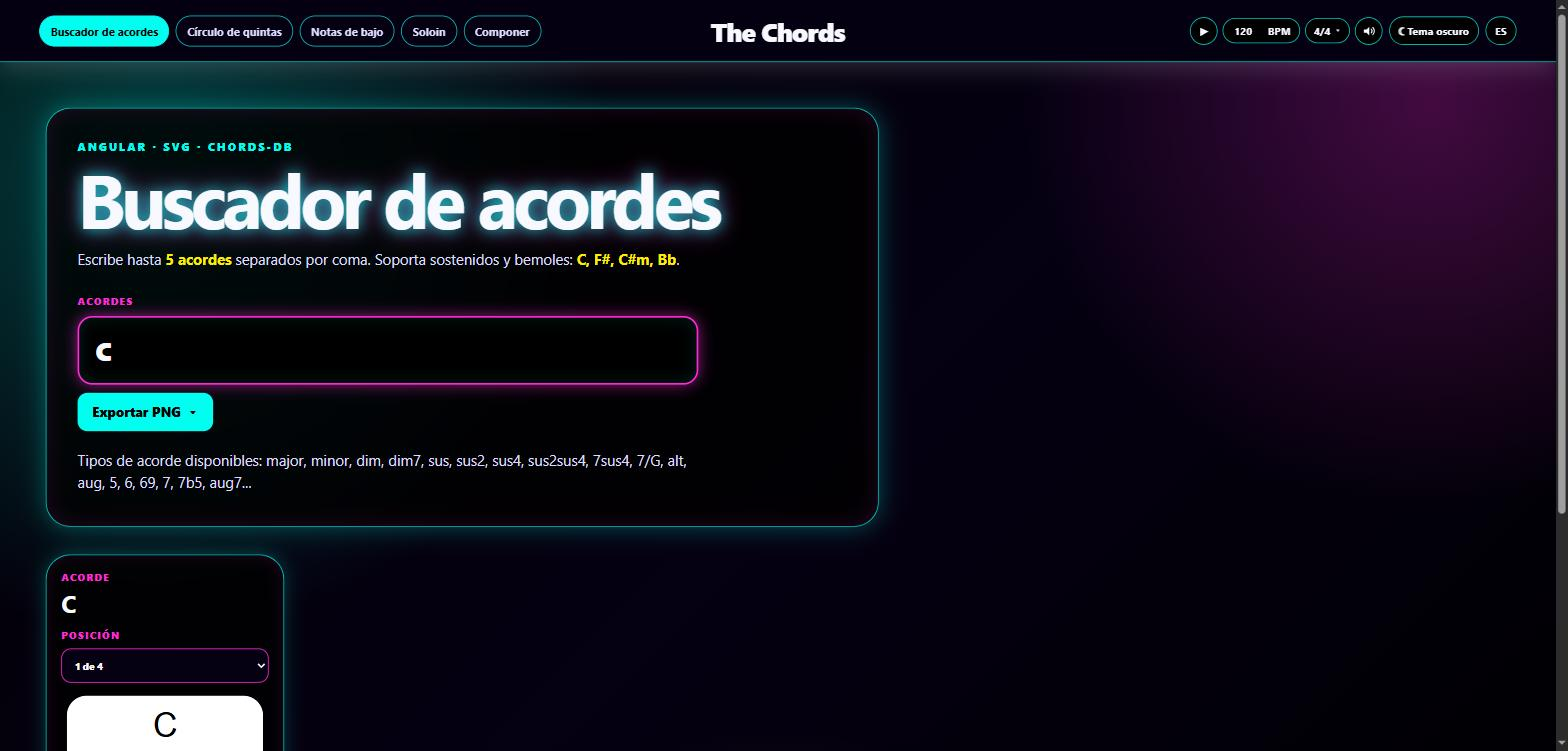
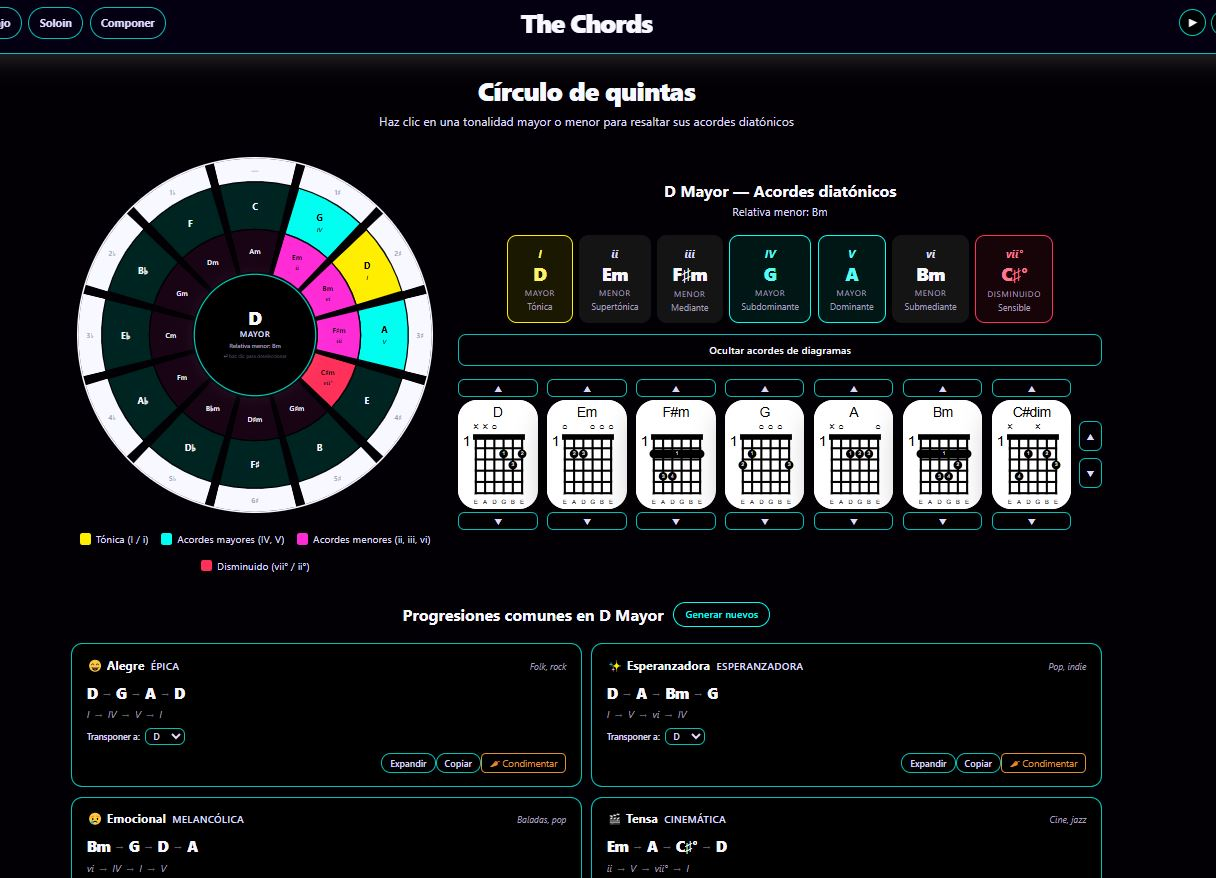
updated exp

diff --git a/src/app/content.ts b/src/app/content.ts
@@ -75,7 +75,7 @@ export const CONTENT: Record<Lang, Content> = {
     focus: {
       heading: 'What I build with',
       groups: [
-        { label: 'Backend & Cloud', items: ['.NET / C#', 'Elixir','AWS Lambda', 'Azure DevOps', 'MSSQL', 'SNS/SQS', 'GitHub Actions', 'PowerShell', 'Bash', 'Linux'] },
+        { label: 'Backend & Cloud', items: ['.NET / C#', 'Elixir', 'AWS Lambda', 'Azure DevOps', 'MSSQL', 'SNS/SQS', 'GitHub Actions', 'PowerShell', 'Bash', 'Linux'] },
         { label: 'Frontend Engineering', items: ['Angular', 'TypeScript', 'JavaScript', 'Reactive programming', 'RxJS', 'HTML5', 'CSS3', 'SCSS', 'PWA'] },
         { label: 'Leadership', items: ['Hiring', 'Mentoring', 'Code review', 'Scrum', 'Gherkin specs', 'Agile', 'Project management', 'Technical interviews'] },
       ],
@@ -95,15 +95,14 @@ export const CONTENT: Record<Lang, Content> = {
           stack: '.NET Core · C# · Angular · MSSQL · Azure DevOps · AWS Lambda',
         },
         {
-          company: 'Trestles TLMS',
-          role: 'Full Stack Software Developer',
-          period: 'May 2019 — Present',
+          company: 'Tranzact',
+          role: 'Software Engineer (Team Lead)',
+          period: 'Feb 2021 — Jun 2023',
           bullets: [
-            'Built the frontend in Angular and backend in C# .NET Core, with SQL Server 2017 scripting.',
-            'Developed a cross-platform Android/iOS app with Ionic.',
-            'Built a test-automation framework with NUnit, SpecFlow, and Selenium (C# .NET Core).',
+            'Led a team of 3 engineers under Scrum, including technical candidate evaluation.',
+            'Migrated a critical VoIP application off-premise, cutting infrastructure <strong>90%</strong> while holding <strong>99.5% uptime</strong> and zero P1 incidents.',
           ],
-          stack: 'Angular · C# · .NET Core · SQL Server · Ionic · NUnit · SpecFlow · Selenium',
+          stack: '.NET Core 5+ · Akka.NET · MSSQL · Azure · AWS Lambda · Splunk',
         },
         {
           company: 'Signal Insights Inc. (New Jersey & Sweden)',
@@ -116,14 +115,15 @@ export const CONTENT: Record<Lang, Content> = {
           stack: 'Linux · Elixir · JavaScript · Functional Programming',
         },
         {
-          company: 'Tranzact',
-          role: 'Software Engineer (Team Lead)',
-          period: 'Feb 2021 — Jun 2023',
+          company: 'Trestles TLMS',
+          role: 'Full Stack Software Developer',
+          period: 'May 2019 — Jan 2021',
           bullets: [
-            'Led a team of 3 engineers under Scrum, including technical candidate evaluation.',
-            'Migrated a critical VoIP application off-premise, cutting infrastructure <strong>90%</strong> while holding <strong>99.5% uptime</strong> and zero P1 incidents.',
+            'Built the frontend in Angular and backend in C# .NET Core, with SQL Server 2017 scripting.',
+            'Developed a cross-platform Android/iOS app with Ionic.',
+            'Built a test-automation framework with NUnit, SpecFlow, and Selenium (C# .NET Core).',
           ],
-          stack: '.NET Core 5+ · Akka.NET · MSSQL · Azure · AWS Lambda · Splunk',
+          stack: 'Angular · C# · .NET Core · SQL Server · Ionic · NUnit · SpecFlow · Selenium',
         },
         {
           company: '3DIQ Inc.',
@@ -155,9 +155,9 @@ export const CONTENT: Record<Lang, Content> = {
       certificationsLabel: 'Certifications',
       entries: [
         { school: 'USIL', detail: "Bachelor's, Business & Software Engineering", period: '2024 — Present' },
-        { school: 'TECSUP', detail: 'Software Engineering Technician — thesis on resilient distributed systems', period: '2019 — 2021' },
+        { school: 'TECSUP', detail: 'Software Engineering Technician — thesis on resilient distributed systems', period: '2016 — 2019 (Thesis in 2021)' },
         { school: 'CTAudio', detail: 'Technician, Live Sound Reinforcement', period: '2023' },
-        { school: 'ISIL', detail: 'Technician, Business Administration — unconcluded (3 semesters)', period: 'Until 2021' },
+        { school: 'ISIL', detail: 'Technician, Business Administration — unconcluded', period: 'Until 2021' },
       ],
       languages: [
         { name: 'English', level: 'Fluent — C1' },
@@ -245,15 +245,14 @@ export const CONTENT: Record<Lang, Content> = {
           stack: '.NET Core · C# · Angular · MSSQL · Azure DevOps · AWS Lambda',
         },
         {
-          company: 'Trestles TLMS',
-          role: 'Full Stack Software Developer',
-          period: 'May 2019 — Actualidad',
+          company: 'Tranzact',
+          role: 'Software Engineer (Team Lead)',
+          period: 'Feb 2021 — Jun 2023',
           bullets: [
-            'Desarrollo front-end con Angular, back-end con C# .NET Core, y scripts en SQL Server 2017.',
-            'Desarrollo de aplicación multiplataforma Android/iOS con Ionic.',
-            'Desarrollo de framework de automatización de pruebas con NUnit, SpecFlow y Selenium (C# .NET Core).',
+            'Lideré un equipo de 3 ingenieros bajo Scrum, incluyendo evaluación técnica de candidatos.',
+            'Migré una aplicación VoIP crítica fuera de infraestructura on-premise, reduciéndola en <strong>90%</strong> mientras mantenía <strong>99.5% de uptime</strong> y cero incidentes P1.',
           ],
-          stack: 'Angular · C# · .NET Core · SQL Server · Ionic · NUnit · SpecFlow · Selenium',
+          stack: '.NET Core 5+ · Akka.NET · MSSQL · Azure · AWS Lambda · Splunk',
         },
         {
           company: 'Signal Insights Inc. (Nueva Jersey y Suecia)',
@@ -266,14 +265,15 @@ export const CONTENT: Record<Lang, Content> = {
           stack: 'Linux · Elixir · JavaScript · Programación Funcional',
         },
         {
-          company: 'Tranzact',
-          role: 'Software Engineer (Team Lead)',
-          period: 'Feb 2021 — Jun 2023',
+          company: 'Trestles TLMS',
+          role: 'Full Stack Software Developer',
+          period: 'May 2019 — Ene 2021',
           bullets: [
-            'Lideré un equipo de 3 ingenieros bajo Scrum, incluyendo evaluación técnica de candidatos.',
-            'Migré una aplicación VoIP crítica fuera de infraestructura on-premise, reduciéndola en <strong>90%</strong> mientras mantenía <strong>99.5% de uptime</strong> y cero incidentes P1.',
+            'Desarrollo front-end con Angular, back-end con C# .NET Core, y scripts en SQL Server 2017.',
+            'Desarrollo de aplicación multiplataforma Android/iOS con Ionic.',
+            'Desarrollo de framework de automatización de pruebas con NUnit, SpecFlow y Selenium (C# .NET Core).',
           ],
-          stack: '.NET Core 5+ · Akka.NET · MSSQL · Azure · AWS Lambda · Splunk',
+          stack: 'Angular · C# · .NET Core · SQL Server · Ionic · NUnit · SpecFlow · Selenium',
         },
         {
           company: '3DIQ Inc.',
@@ -305,9 +305,9 @@ export const CONTENT: Record<Lang, Content> = {
       certificationsLabel: 'Certificaciones',
       entries: [
         { school: 'USIL', detail: 'Bachillerato, Ingeniería Empresarial y de Sistemas', period: '2024 — Actualidad' },
-        { school: 'TECSUP', detail: 'Técnico en Ingeniería de Software — tesis sobre sistemas distribuidos resilientes', period: '2019 — 2021' },
+        { school: 'TECSUP', detail: 'Técnico en Ingeniería de Software — tesis sobre sistemas distribuidos resilientes', period: '2016 — 2019 (Tesis en 2021)' },
         { school: 'CTAudio', detail: 'Técnico en Reforzamiento Sonoro en Vivo', period: '2023' },
-        { school: 'ISIL', detail: 'Técnico en Administración de Empresas — inconcluso (3 ciclos)', period: 'Hasta 2021' },
+        { school: 'ISIL', detail: 'Técnico en Administración de Empresas — inconcluso', period: 'Hasta 2021' },
       ],
       languages: [
         { name: 'Inglés', level: 'Fluido — C1' },

diff --git a/src/app/app.ts b/src/app/app.ts
@@ -122,14 +122,22 @@ export class App implements AfterViewInit, OnDestroy {
       stack: 'Angular 22',
       live: 'https://elparaquecosadeque.github.io/the-chords/chord-finder',
       repo: 'https://github.com/elparaquecosadeque/the-chords',
-      screenshots: ['/assets/screenshots/the-chords/1.jpg', '/assets/screenshots/the-chords/2.jpg'],
+      screenshots: [
+        '/assets/screenshots/the-chords/3.JPG', // chord finder, multiple chords
+        '/assets/screenshots/the-chords/1.JPG', // circle of fifths, diatonic chords
+        '/assets/screenshots/the-chords/2.JPG', // composer workspace
+      ],
     },
     {
       id: 'metropolitano',
       stack: 'Angular 22 · PWA',
       live: 'https://oficinamentaldebruno.com/mi-metropolitano/',
       repo: 'https://github.com/elparaquecosadeque/mi-metropolitano',
-      screenshots: ['/assets/screenshots/mi-metropolitano/1.jpg', '/assets/screenshots/mi-metropolitano/2.jpg'],
+      screenshots: [
+        '/assets/screenshots/mi-metropolitano/2.jpg', // route search result with transfer
+        '/assets/screenshots/mi-metropolitano/3.JPG', // route & schedule browser
+        '/assets/screenshots/mi-metropolitano/4.JPG', // mobile search result
+      ],
     },
     {
       id: 'personal-trainer-pwa',
@@ -143,7 +151,10 @@ export class App implements AfterViewInit, OnDestroy {
       stack: 'Angular',
       live: 'https://elparaquecosadeque.github.io/live-sound-calculator/',
       repo: 'https://github.com/elparaquecosadeque/live-sound-calculator',
-      screenshots: ['/assets/screenshots/live-sound-calculator/1.jpg', '/assets/screenshots/live-sound-calculator/2.jpg'],
+      screenshots: [
+        '/assets/screenshots/live-sound-calculator/1.jpg', // empty state
+        '/assets/screenshots/live-sound-calculator/3.JPG', // all six calculators filled in
+      ],
     },
     {
       id: 'terminal-scripts',
